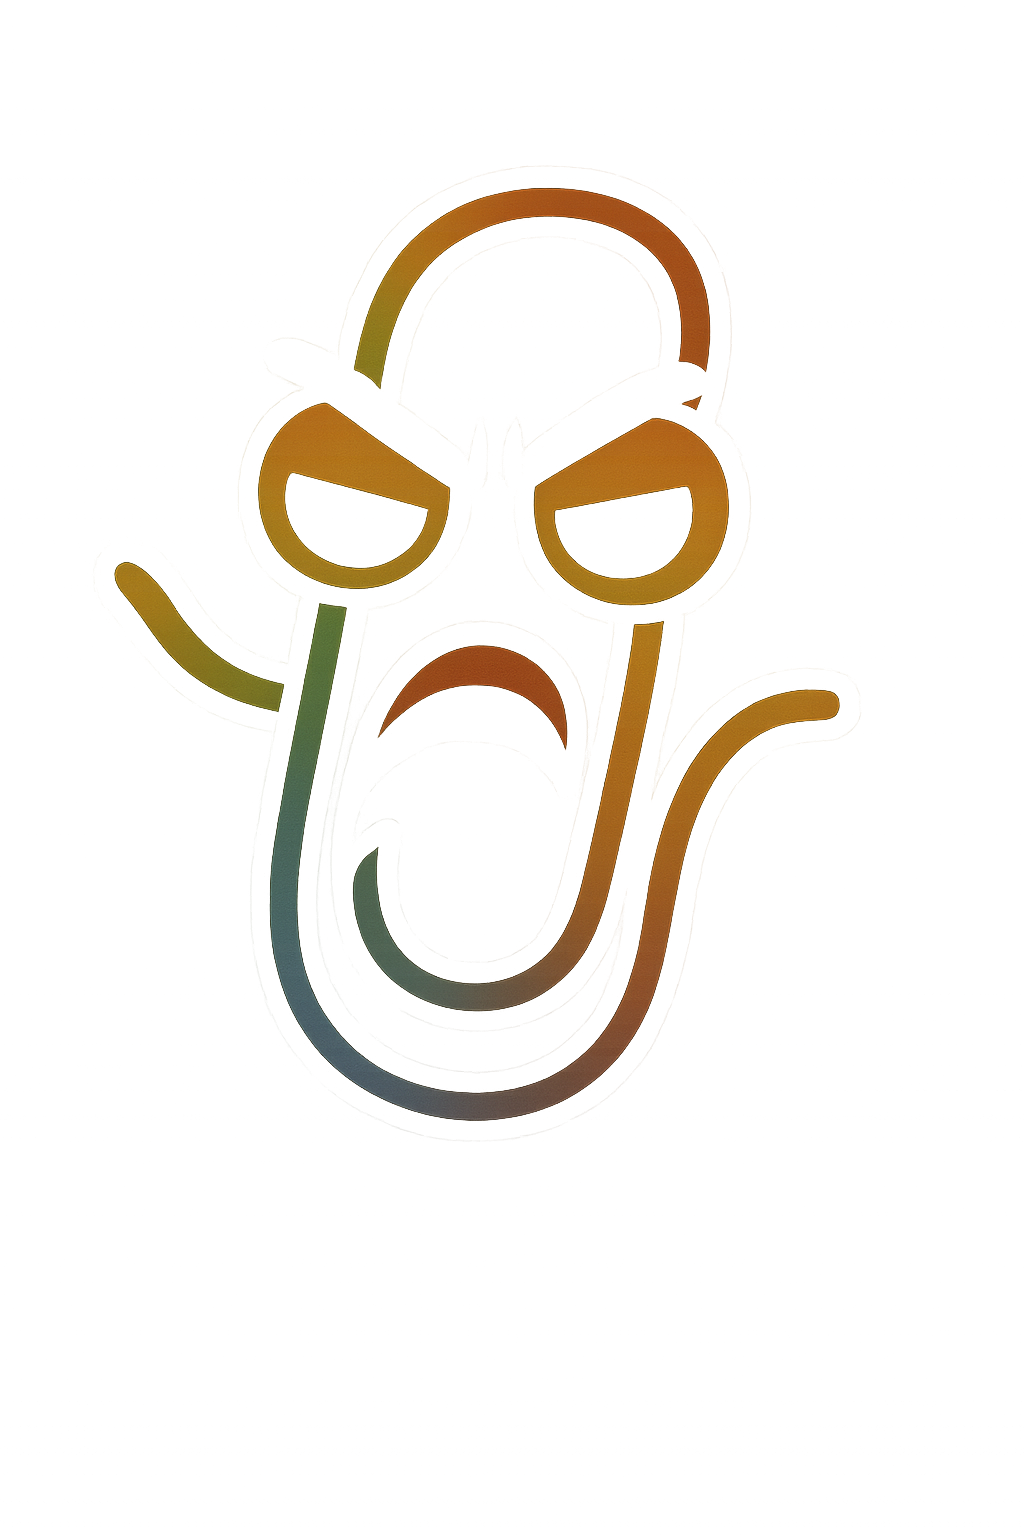
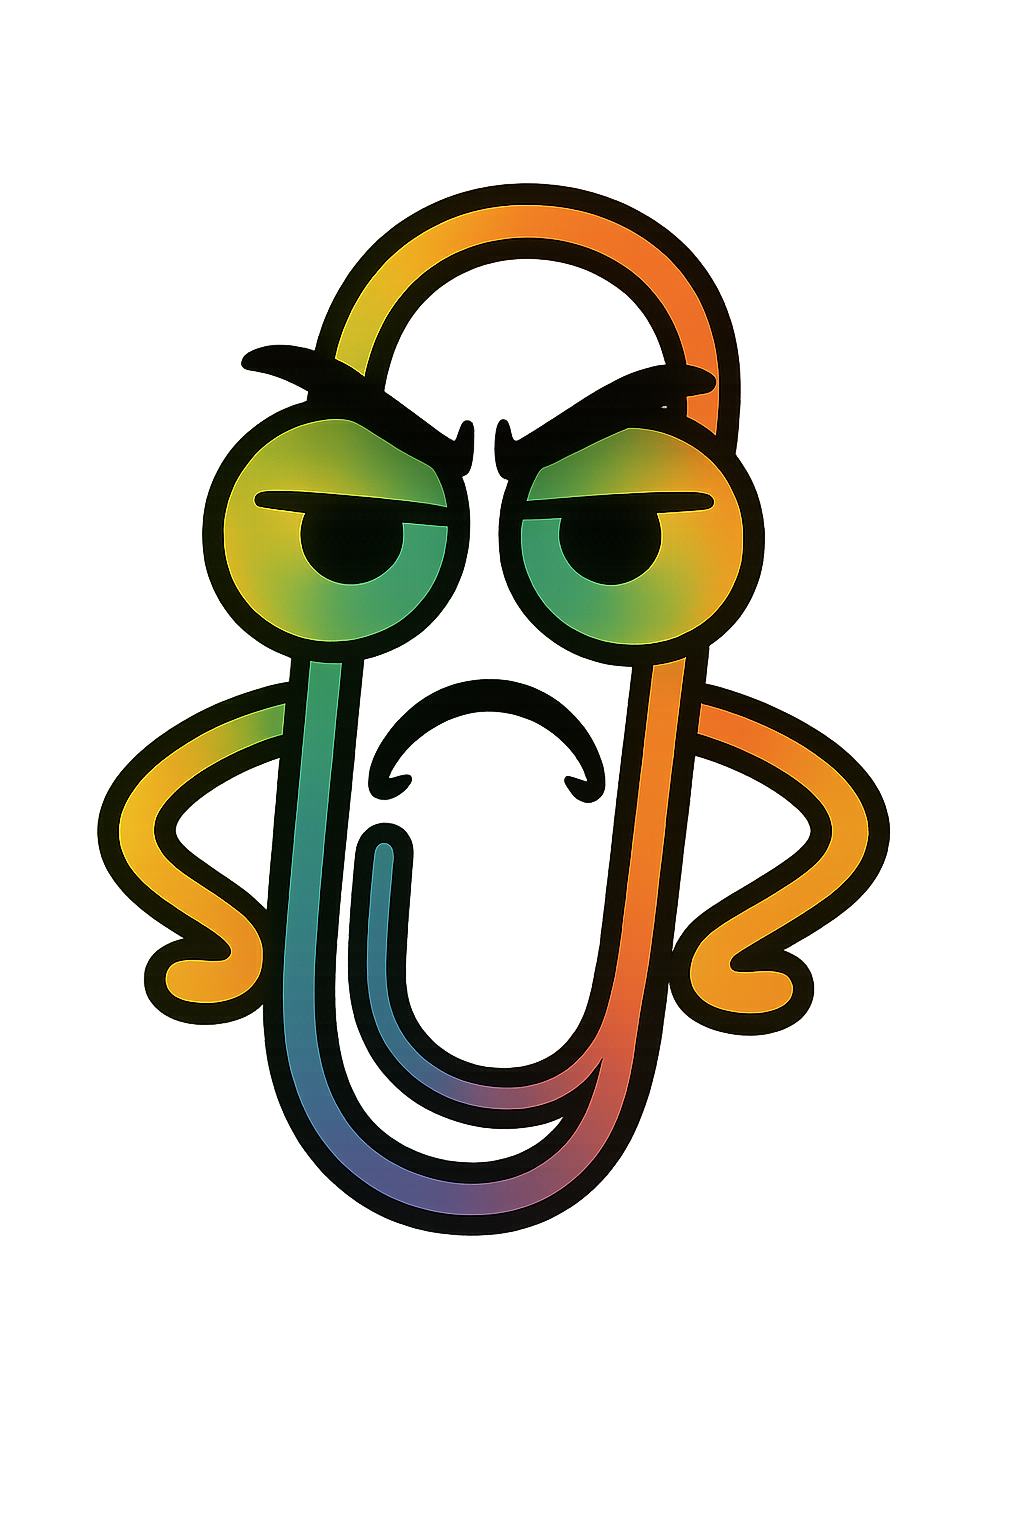
Mad clippy done!

Changed region(s): [[0.0938, 0.0938, 0.875, 0.8125]]

diff --git a/templates/base_template.py b/templates/base_template.py
@@ -106,7 +106,9 @@ BASE_TEMPLATE = """
         <img id="clippy-1" class="clippy-image" src="{{ url_for('static', filename='images/ClippyImages/clippy_1.png') }}" alt="Clippy">
         <img id="clippy-2" class="clippy-image" src="{{ url_for('static', filename='images/ClippyImages/clippy_2.png') }}" alt="Clippy">
         <img id="clippy-3" class="clippy-image" src="{{ url_for('static', filename='images/ClippyImages/clippy_3.png') }}" alt="Clippy">
+        <img id="clippy-angry" class="clippy-image" src="{{ url_for('static', filename='images/ClippyImages/clippy_angry.png') }}" alt="Angry Clippy">
         <img id="clippy-textbox" class="clippy-textbox" src="{{ url_for('static', filename='images/ClippyImages/clippy_textbox.png') }}" alt="Clippy Textbox">
+        <img id="clippy-textbox-angry" class="clippy-textbox" src="{{ url_for('static', filename='images/ClippyImages/clippy_textbox_angry.png') }}" alt="Angry Clippy Textbox">
     </div>
     
     <!-- Separate container for the joke checkbox that appears with Clippy -->
@@ -170,7 +172,10 @@ BASE_TEMPLATE = """
             const clippyTextbox = document.getElementById('clippy-textbox');
             const clippyCheckbox = document.getElementById('clippy-checkbox-container');
             
-            if (clippy1 && clippy2 && clippy3 && clippyTextbox && clippyCheckbox) {
+            const clippyAngry = document.getElementById('clippy-angry');
+            const clippyTextboxAngry = document.getElementById('clippy-textbox-angry');
+            
+            if (clippy1 && clippy2 && clippy3 && clippyAngry && clippyTextbox && clippyTextboxAngry && clippyCheckbox) {
                 console.log('Clippy elements found, animation will start.');
             
             // Function to run the complete animation sequence
@@ -179,7 +184,9 @@ BASE_TEMPLATE = """
                 clippy1.classList.remove('clippy-visible');
                 clippy2.classList.remove('clippy-visible');
                 clippy3.classList.remove('clippy-visible');
+                clippyAngry.classList.remove('clippy-visible');
                 clippyTextbox.classList.remove('clippy-visible');
+                clippyTextboxAngry.classList.remove('clippy-visible');
                 clippyCheckbox.classList.remove('clippy-visible');
                 
                 // Reset the checkbox position
@@ -241,6 +248,12 @@ BASE_TEMPLATE = """
                     
                     // Only run away if mouse is close (within 100px)
                     if (distance < 100) {
+                        // Show angry Clippy when user tries to interact with checkbox
+                        clippy3.classList.remove('clippy-visible');
+                        clippyTextbox.classList.remove('clippy-visible');
+                        clippyAngry.classList.add('clippy-visible');
+                        clippyTextboxAngry.classList.add('clippy-visible');
+                        
                         // Direction to move away (opposite of mouse)
                         const moveX = -distX / distance * 30; // Faster movement
                         const moveY = -distY / distance * 30; // Faster movement
@@ -259,7 +272,7 @@ BASE_TEMPLATE = """
                         
                         // Apply new transform (with current offset + new movement)
                         clippyCheckbox.style.transform = `translate(${currentX + moveX}px, ${currentY + moveY}px)`;
-                        console.log('Moving checkbox away from mouse!');
+                        console.log('Clippy is angry! Moving checkbox away from mouse!');
                     }
                 });
             } else {
